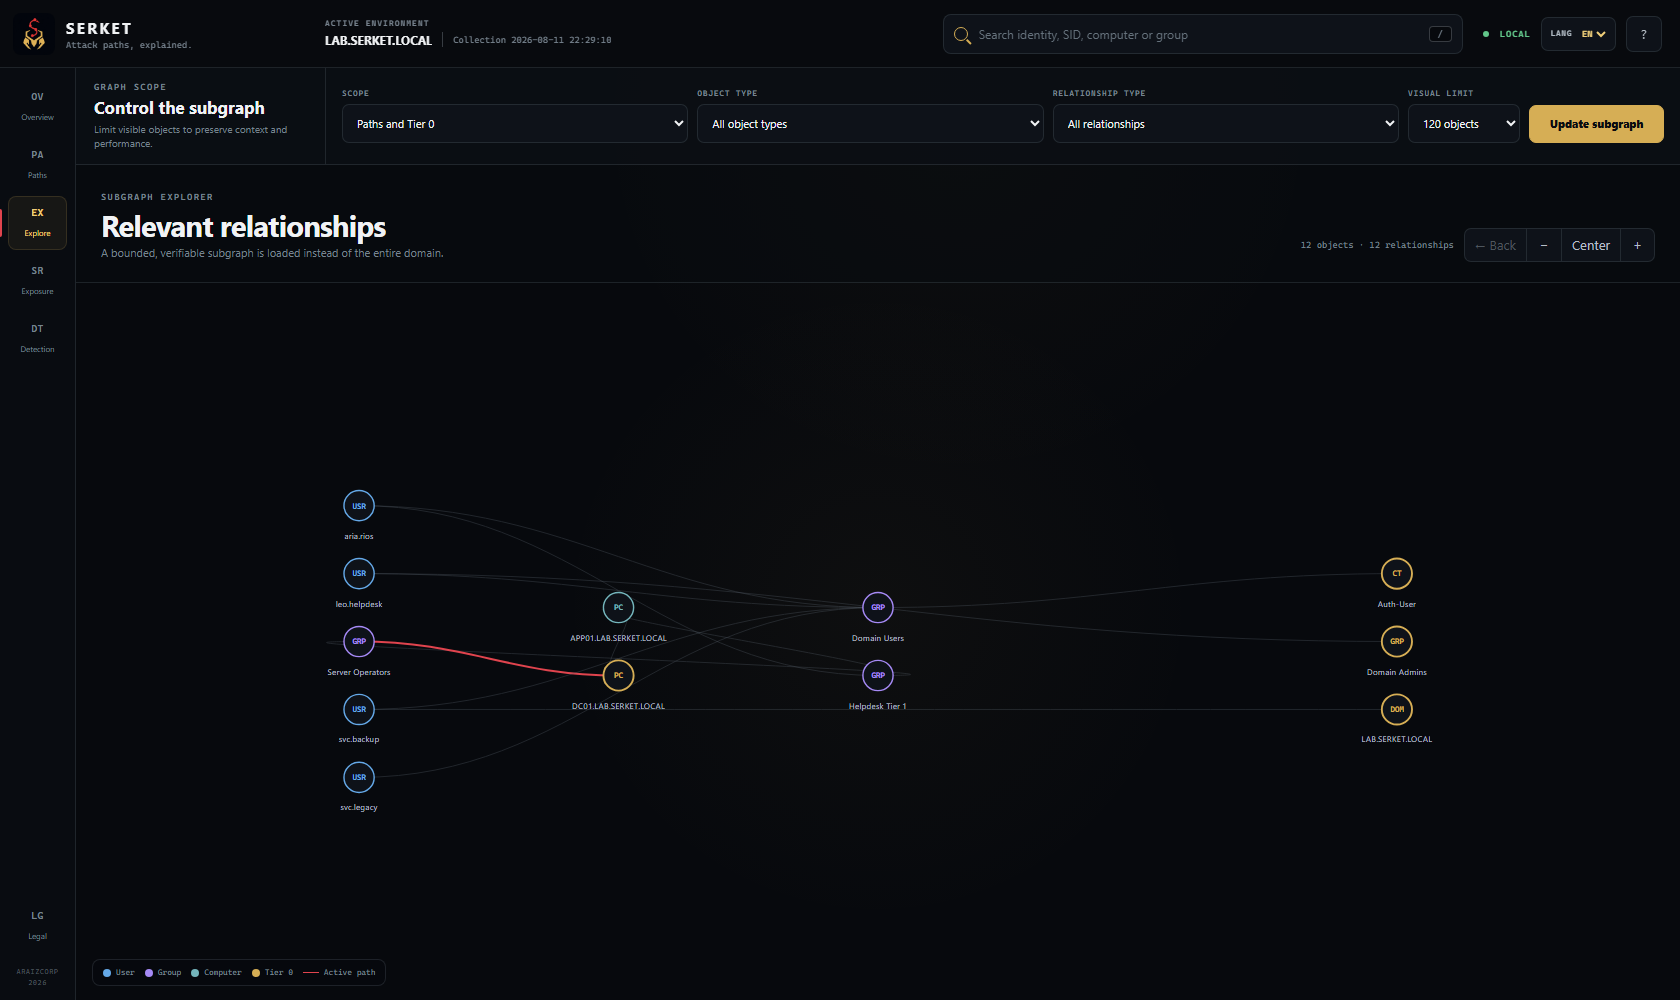
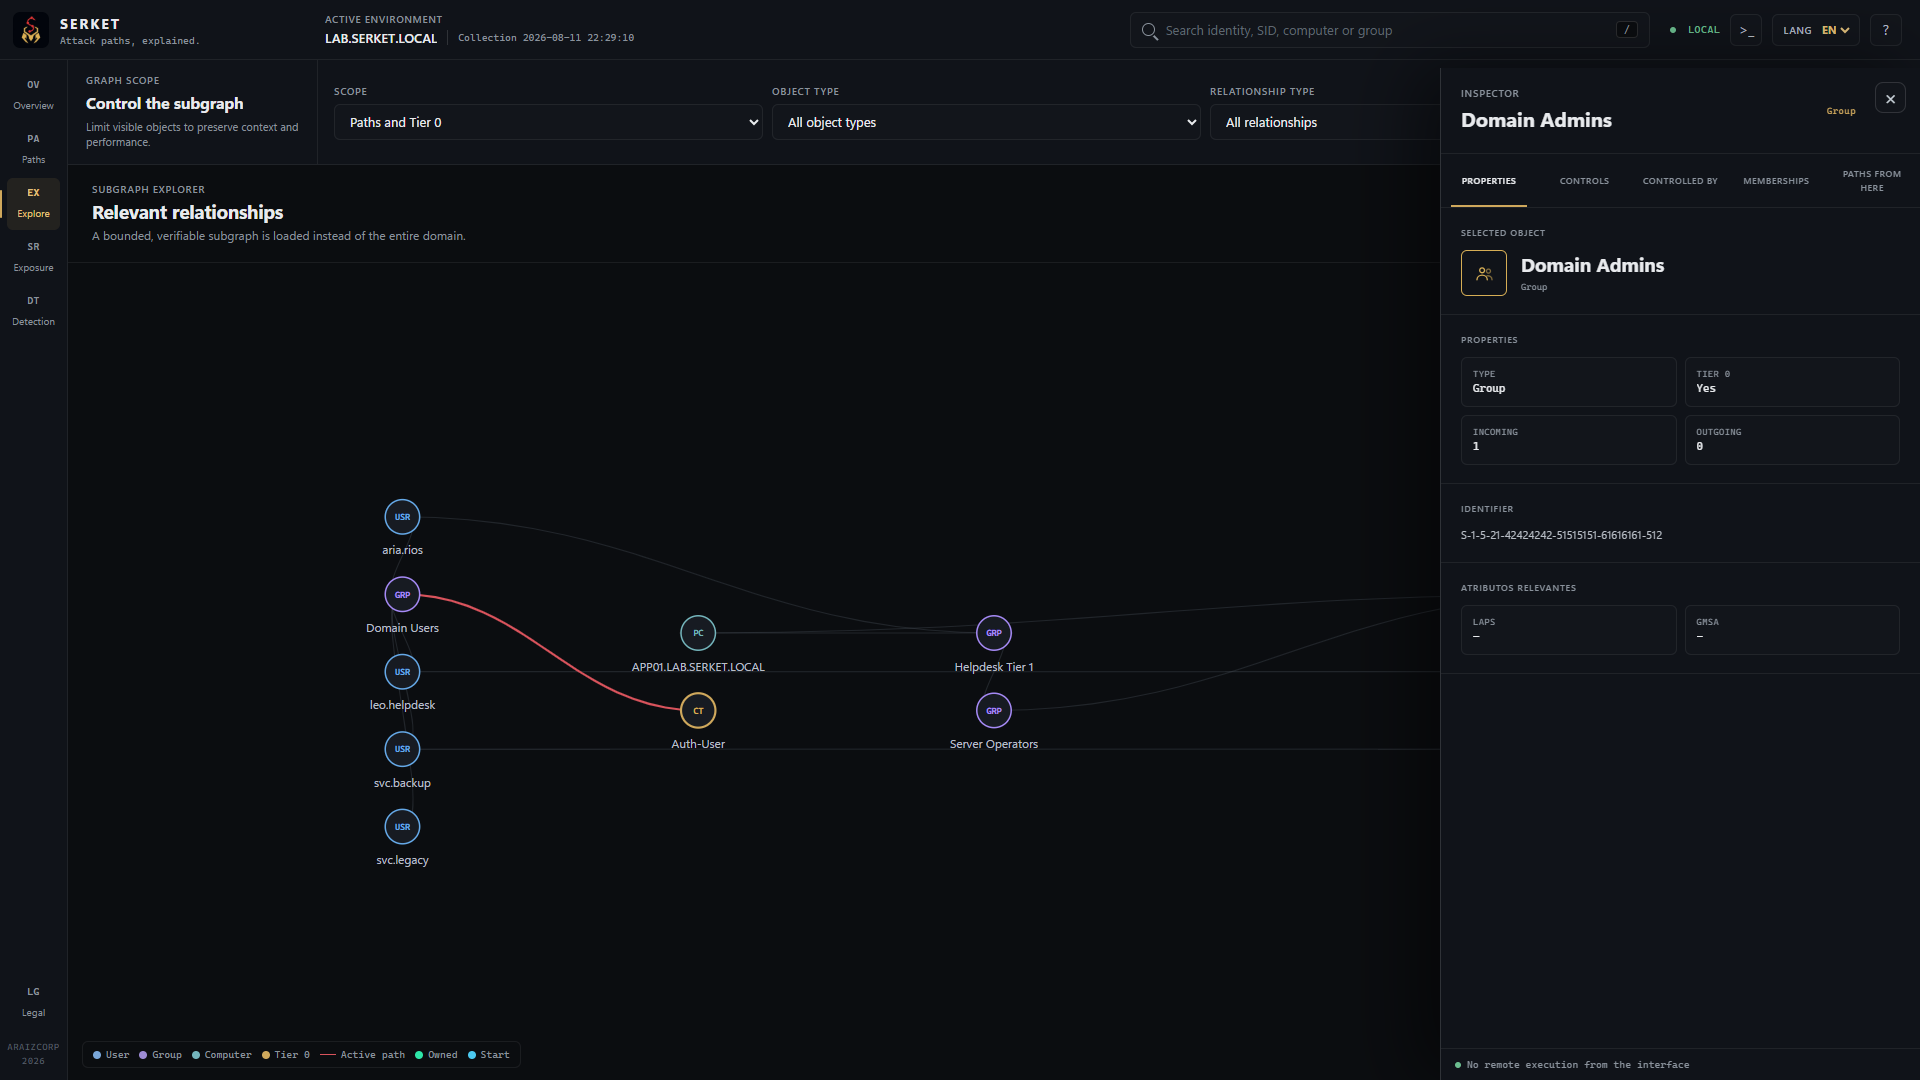
docs(media): update Serket v2.1 workbench screenshots and visual references

diff --git a/serket/ui/workbench.js b/serket/ui/workbench.js
@@ -1447,6 +1447,40 @@ function bindStaticEvents() {
       helpModal.classList.remove("open");
     }
   });
+
+  const urlParams = new URLSearchParams(window.location.search);
+  if (urlParams.get("nolegal") === "1" || urlParams.has("view")) {
+    legalModal.classList.remove("open");
+  }
+  const targetView = urlParams.get("view");
+  if (targetView) {
+    switchView(targetView);
+    if (targetView === "paths" && state.paths.length) {
+      setTimeout(() => selectPath(0, true), 300);
+    }
+    if (targetView === "explorer") {
+      setTimeout(() => {
+        state.graphOptions.scope = urlParams.get("scope") || "relevant";
+        if (urlParams.has("node")) {
+          focusExplorerNode(urlParams.get("node"), false);
+        } else {
+          renderGraph();
+        }
+        if (urlParams.get("inspector") === "1" || urlParams.get("details") === "1") {
+          const inspectId = urlParams.get("inspect") || "S-1-5-21-42424242-51515151-61616161-512";
+          const targetObj = state.nodeMap.get(inspectId);
+          if (targetObj) inspectNode(targetObj);
+          openExplorerInspector();
+        }
+      }, 350);
+    }
+  }
+  if (urlParams.get("console") === "1") {
+    setTimeout(() => {
+      const cb = $("#console-button");
+      if (cb) cb.click();
+    }, 400);
+  }
 }
 
 window.addEventListener("DOMContentLoaded", () => {

diff --git a/README.es.md b/README.es.md
@@ -23,9 +23,17 @@ Serket no se presenta como “indetectable”. Su perfil de colección controlad
 
 ![Serket Workbench — Vista general del dominio](docs/media/serket-workbench-overview.png)
 
-| | |
+| Rutas de ataque (ponderación OPSEC) | Explorador de subgrafos e inspector |
 |---|---|
 | ![Rutas](docs/media/serket-workbench-paths.png) | ![Explorador](docs/media/serket-workbench-explorer.png) |
+
+| Superficie de ataque observada | Telemetría e ingeniería de cobertura |
+|---|---|
+| ![Superficie de ataque](docs/media/serket-workbench-surface.png) | ![Telemetría y cobertura](docs/media/serket-workbench-telemetry.png) |
+
+| Consola de consultas SKQL integrada | Pasarela de autorización |
+|---|---|
+| ![Consola de consultas](docs/media/serket-workbench-console.png) | ![Pasarela legal](docs/media/serket-legal-gate.png) |
 
 > Capturas reales del workbench sirviendo el bundle `demo/` incluido.
 

diff --git a/README.md b/README.md
@@ -23,9 +23,17 @@ Serket is not presented as “undetectable.” Its controlled collection profile
 
 ![Serket Workbench — Domain overview](docs/media/serket-workbench-overview.png)
 
-| | |
+| Attack Paths (OPSEC-weighted) | Subgraph Explorer & Node Inspector |
 |---|---|
 | ![Paths](docs/media/serket-workbench-paths.png) | ![Explorer](docs/media/serket-workbench-explorer.png) |
+
+| Observed Attack Surface | Telemetry & Coverage Engineering |
+|---|---|
+| ![Attack Surface](docs/media/serket-workbench-surface.png) | ![Telemetry & Coverage](docs/media/serket-workbench-telemetry.png) |
+
+| In-Browser SKQL Query Console | Authorization Gate |
+|---|---|
+| ![Query Console](docs/media/serket-workbench-console.png) | ![Legal Gate](docs/media/serket-legal-gate.png) |
 
 > Screenshots captured from the real workbench serving the included `demo/` bundle.
 
